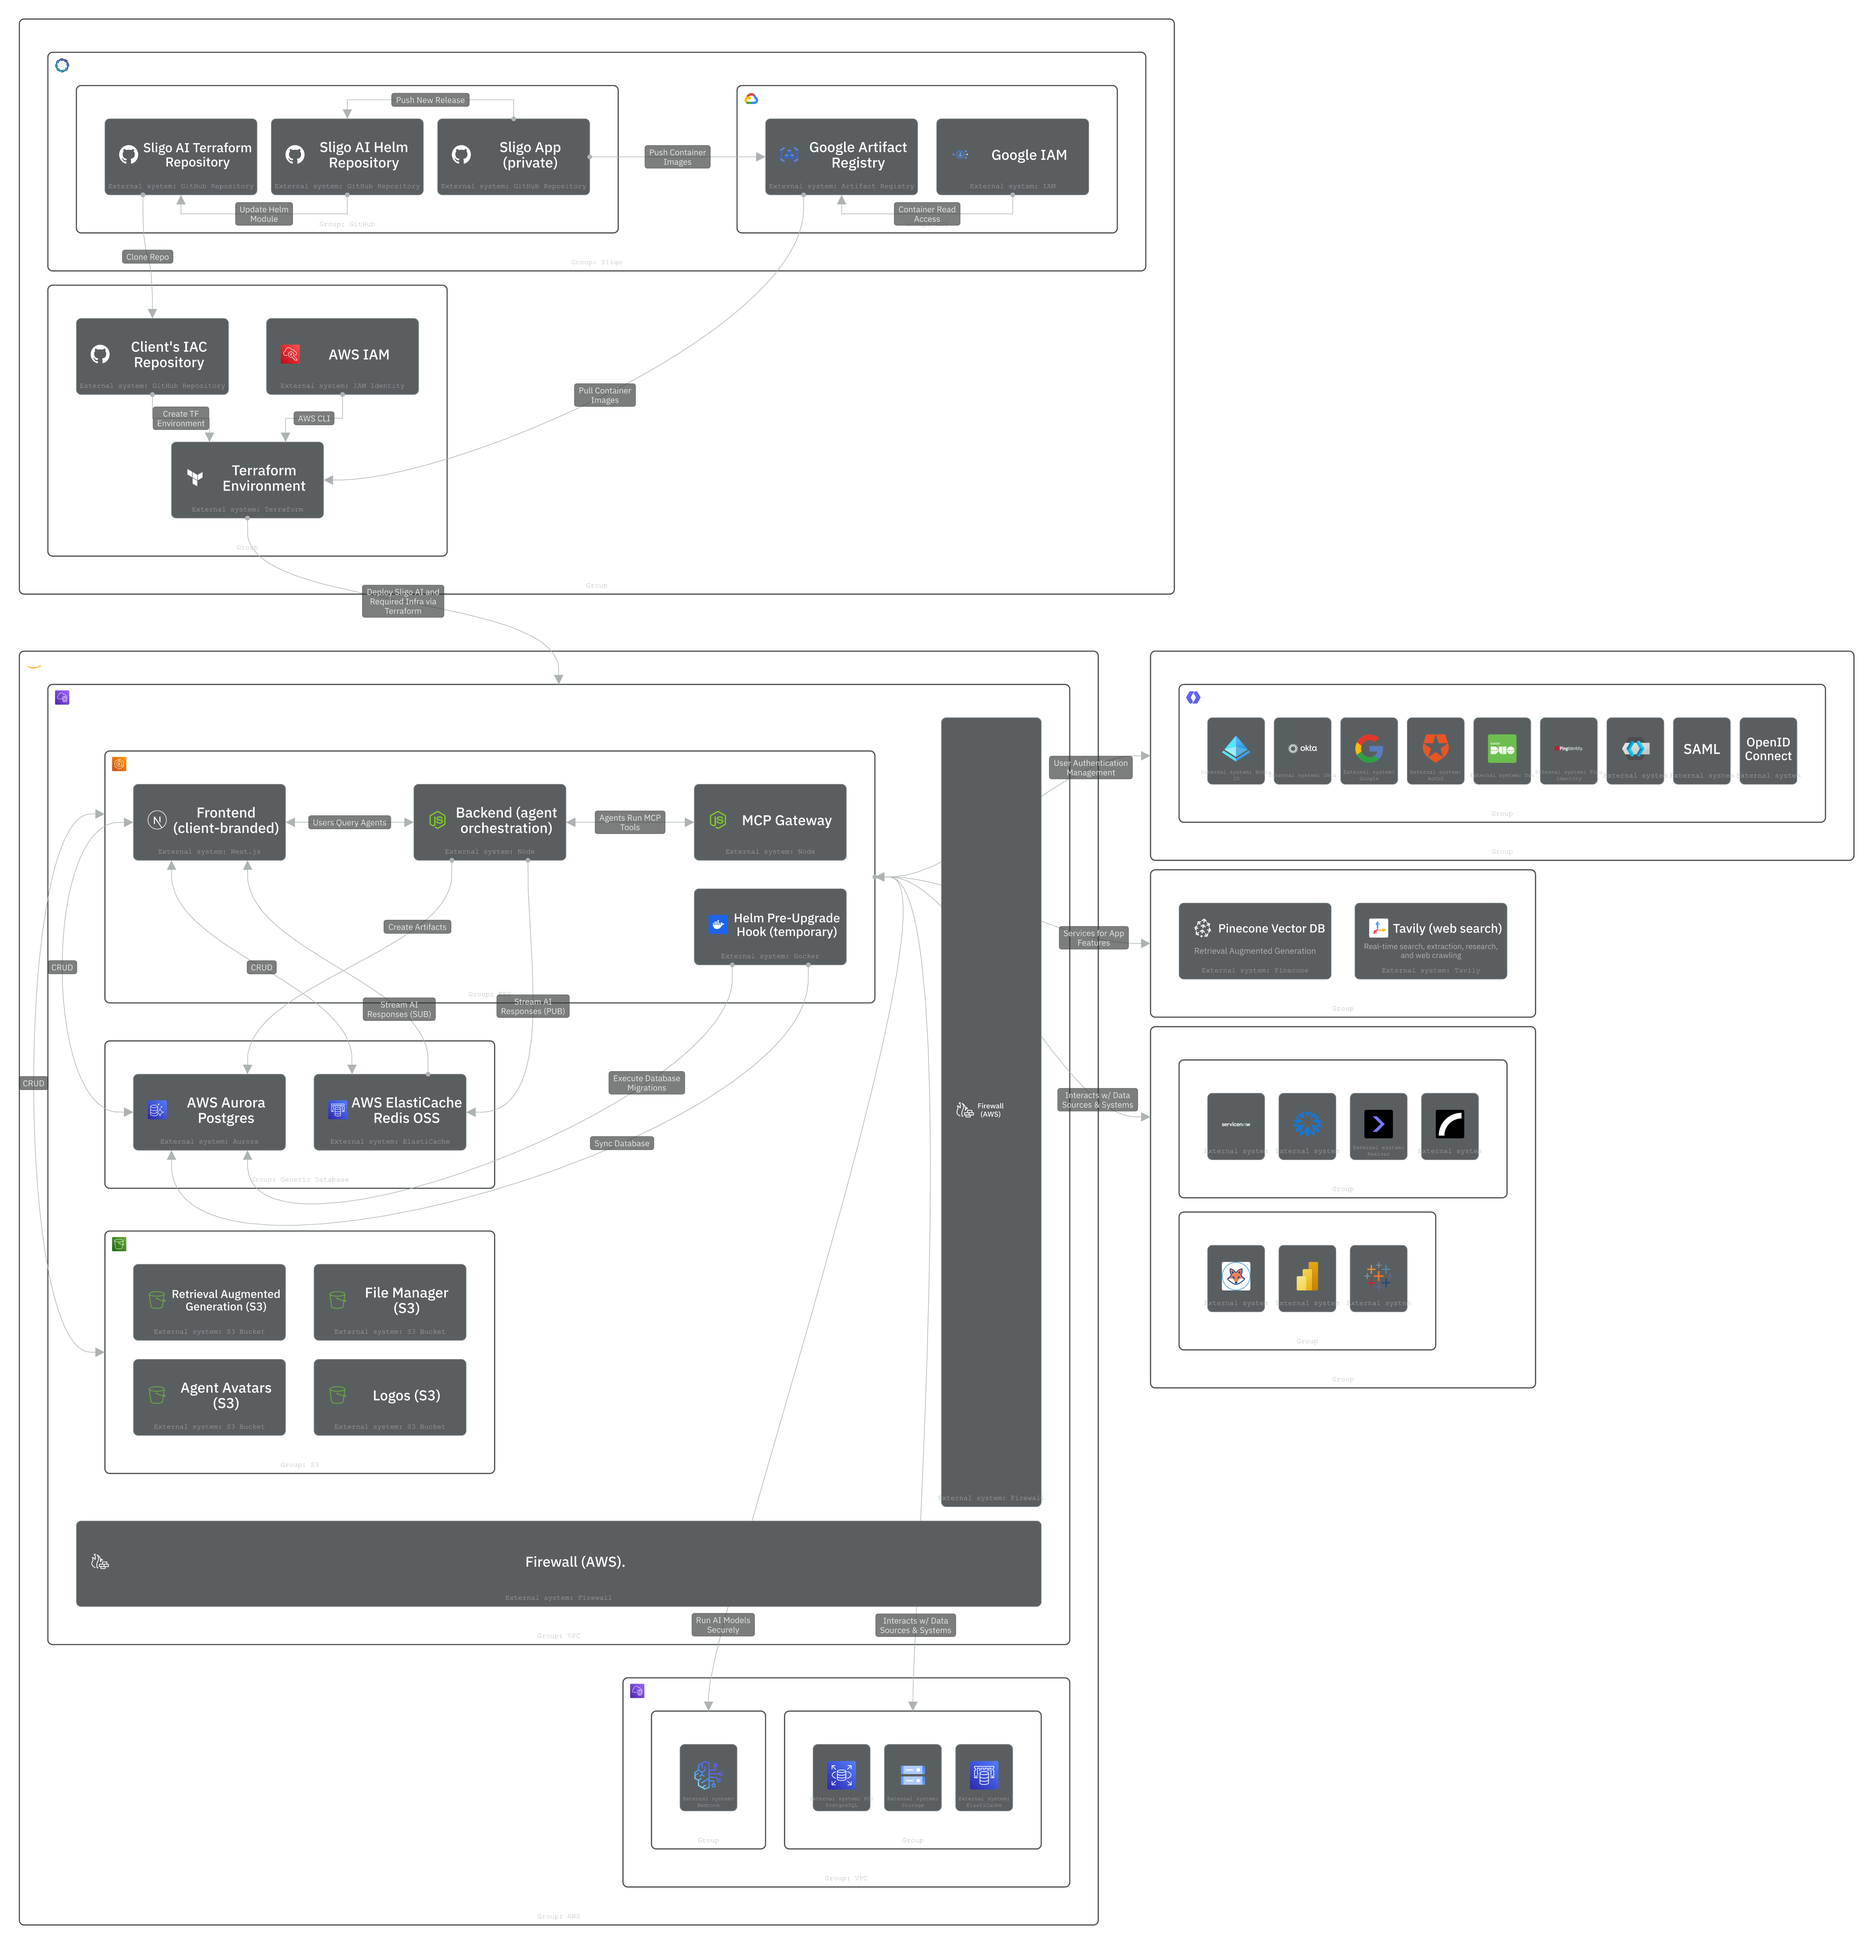
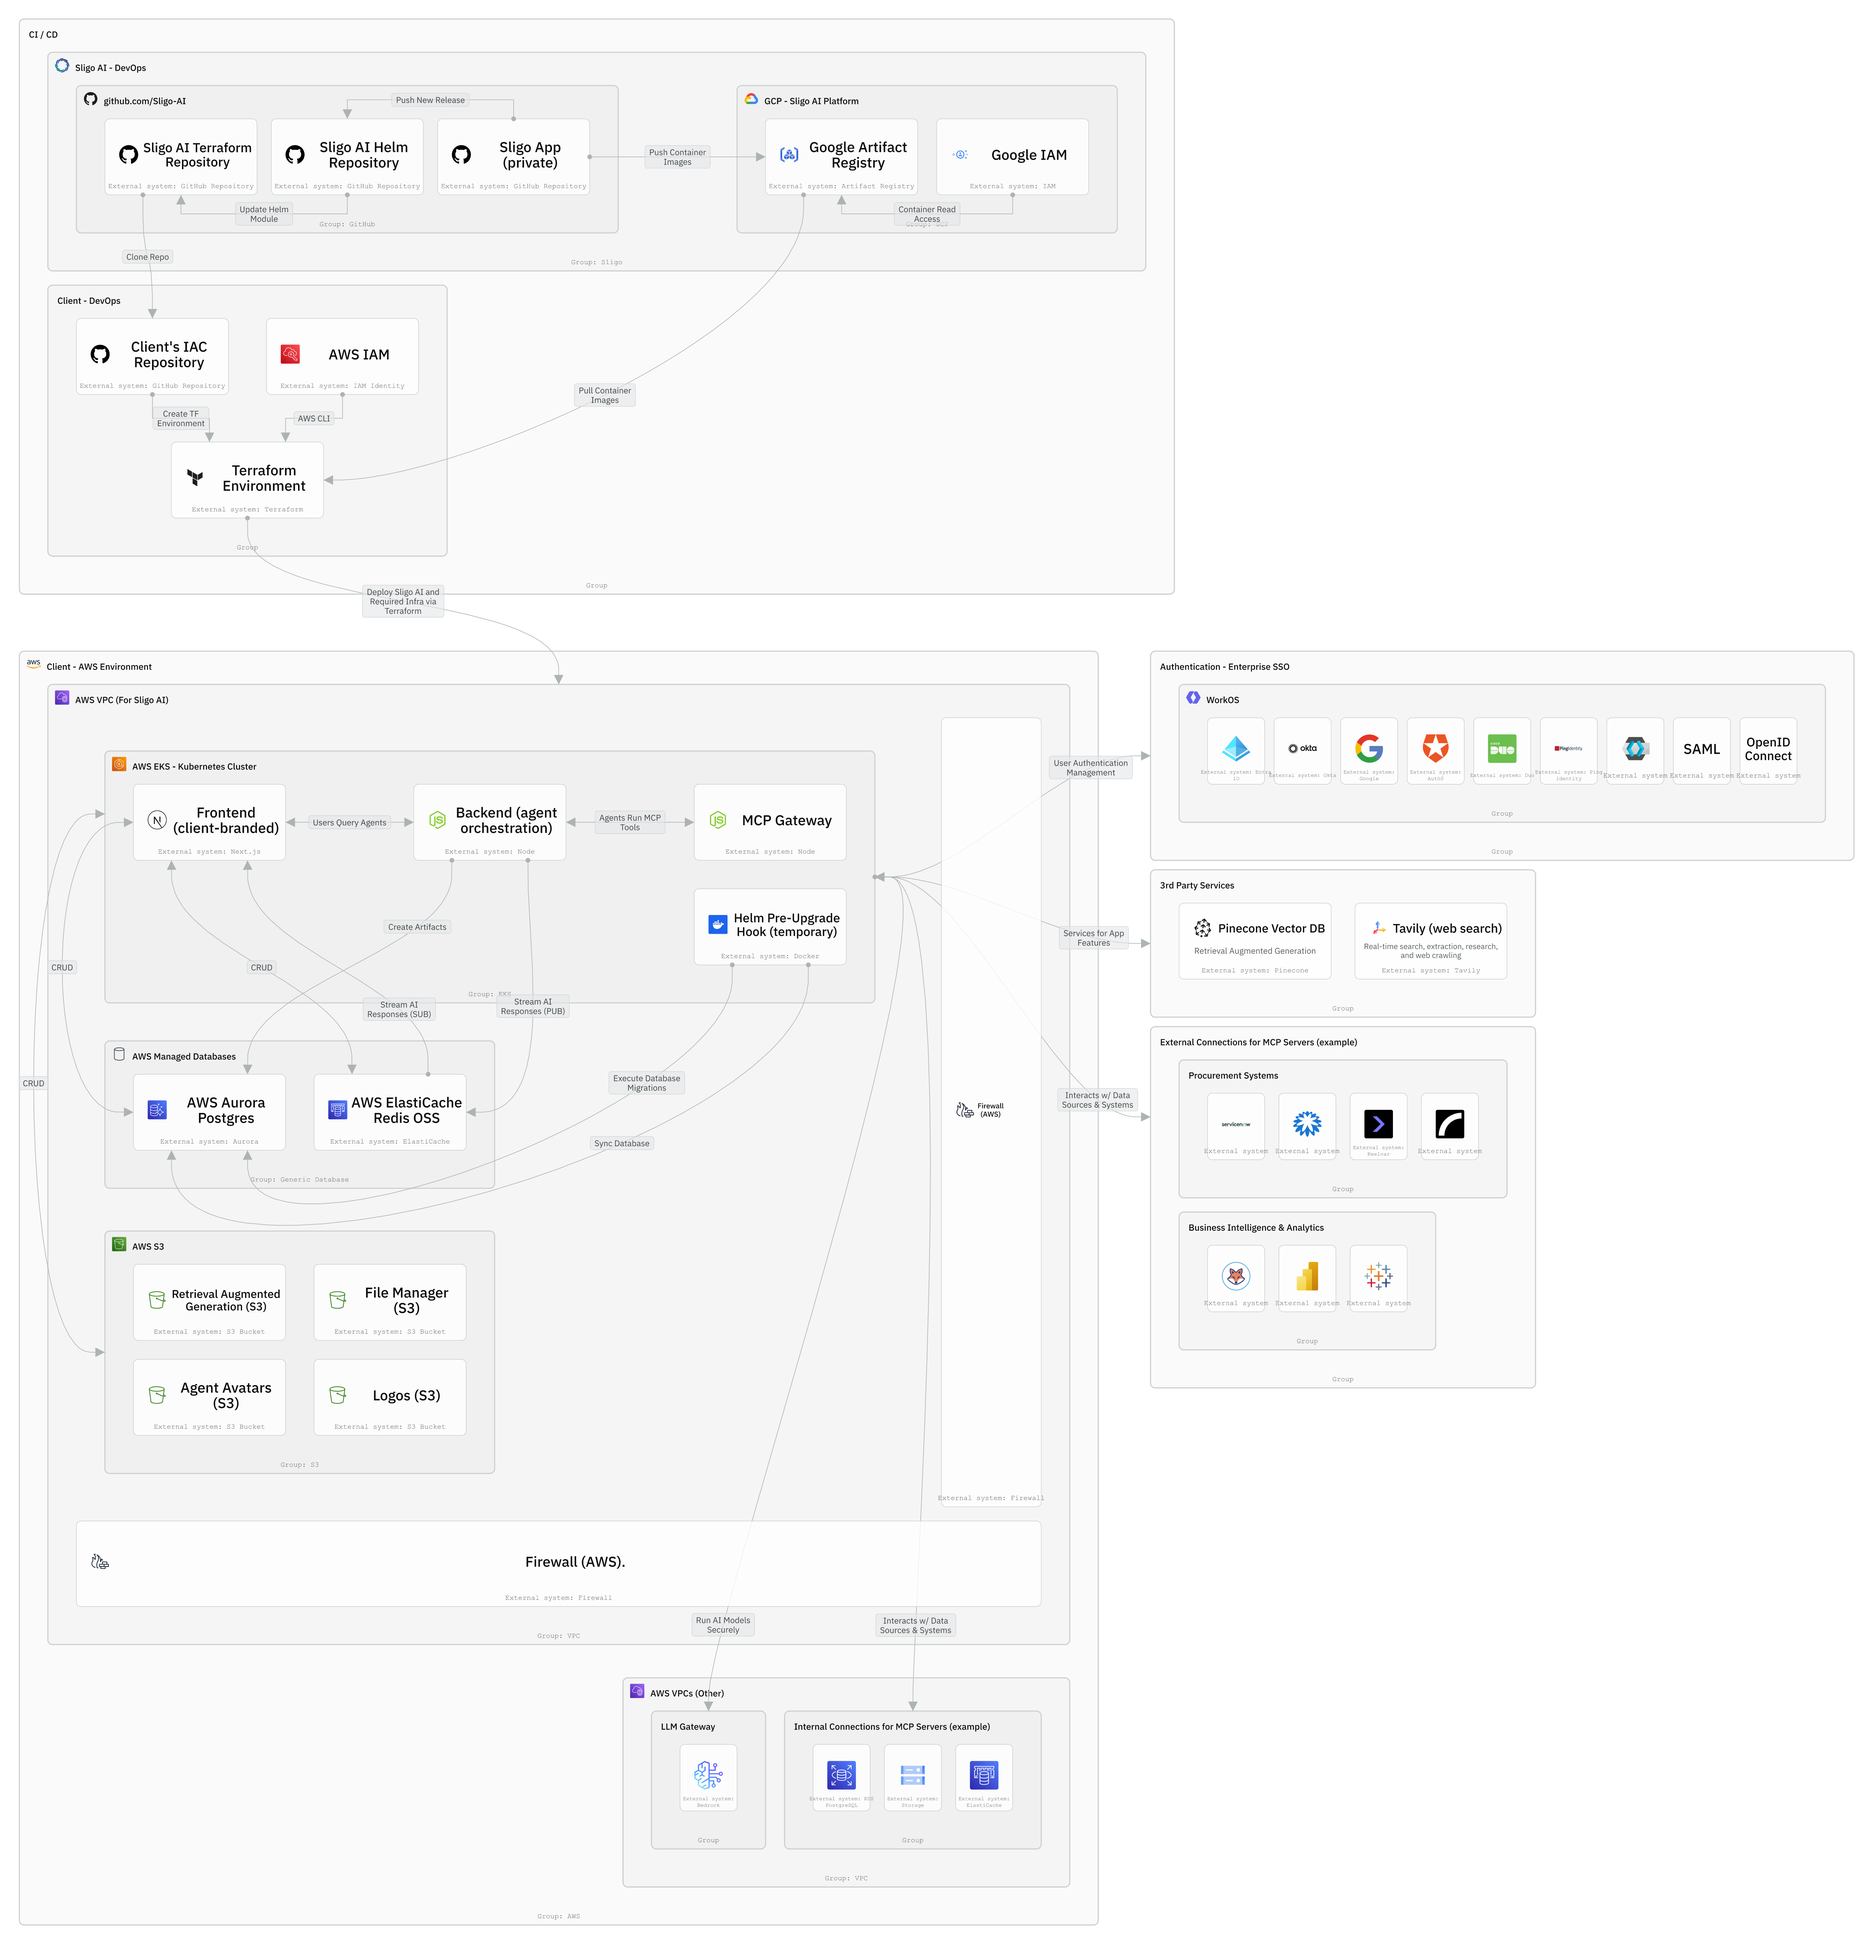
Added lightmode and darkmode diagrams

diff --git a/docs/_includes/theme-image.html b/docs/_includes/theme-image.html
@@ -1,0 +1,18 @@
+{% comment %}
+  Renders an image that switches by theme (Sligo Jekyll theme uses data-theme on html).
+  Parameters: light (required), dark (optional, falls back to light), alt (required)
+  Example: {% include theme-image.html light="aws-deployment.png" dark="aws-deployment-dark.png" alt="AWS Deployment" %}
+{% endcomment %}
+{% assign light_src = site.baseurl | append: "/assets/images/" | append: include.light %}
+{% assign dark_src = include.dark | default: include.light %}
+{% assign dark_src = site.baseurl | append: "/assets/images/" | append: dark_src %}
+<style>
+.theme-aware-image img.theme-light { display: block; }
+.theme-aware-image img.theme-dark { display: none; }
+html[data-theme="dark"] .theme-aware-image img.theme-light { display: none; }
+html[data-theme="dark"] .theme-aware-image img.theme-dark { display: block; }
+</style>
+<div class="theme-aware-image">
+  <img class="theme-light" src="{{ light_src }}" alt="{{ include.alt }}">
+  <img class="theme-dark" src="{{ dark_src }}" alt="{{ include.alt }}">
+</div>

diff --git a/docs/README.md b/docs/README.md
@@ -30,3 +30,13 @@ In the repo: **Settings → Pages → Build and deployment**
 - **Config:** `remote_theme: Sligo-AI/sligo-jekyll-theme` in `_config.yml`.
 
 Logo assets are in `assets/images/`. Navigation and theme options are in `_config.yml`.
+
+### Theme-aware deployment diagrams
+
+The AWS, GCP, and Azure deployment pages use `_includes/theme-image.html` so the diagram can differ in dark vs light mode. To show a different image in dark mode, add `-dark` variants and reference them:
+
+- `aws-deployment.png` (light) / `aws-deployment-dark.png` (dark)
+- `azure-deployment.png` (light) / `azure-deployment-dark.png` (dark)
+- `gcp-deployment.png` (light) / `gcp-deployment-dark.png` (dark)
+
+If you omit the `dark` parameter in the include, the same image is used for both themes.

diff --git a/docs/azure.md b/docs/azure.md
@@ -4,7 +4,7 @@ title: "Deploy on Azure AKS"
 description: "Step-by-step guide for deploying Sligo Enterprise on Azure AKS with Azure Database for PostgreSQL, Azure Cache for Redis, and Blob Storage."
 ---
 
-![Azure Deployment]({{ site.baseurl }}/assets/images/azure-deployment.png)
+{% include theme-image.html light="azure-deployment.png" dark="azure-deployment-dark.png" alt="Azure Deployment" %}
 
 ## Prerequisites
 

diff --git a/docs/gcp.md b/docs/gcp.md
@@ -4,7 +4,7 @@ title: "Deploy on GCP GKE"
 description: "Step-by-step guide for deploying Sligo Enterprise on Google GKE with Cloud SQL, Memorystore, and Cloud Storage."
 ---
 
-![GCP Deployment]({{ site.baseurl }}/assets/images/gcp-deployment.png)
+{% include theme-image.html light="gcp-deployment.png" dark="gcp-deployment-dark.png" alt="GCP Deployment" %}
 
 ## Prerequisites
 

diff --git a/docs/aws.md b/docs/aws.md
@@ -4,7 +4,7 @@ title: "Deploy on AWS EKS"
 description: "Step-by-step guide for deploying Sligo Enterprise on Amazon EKS with Aurora, ElastiCache, and S3."
 ---
 
-![AWS Deployment]({{ site.baseurl }}/assets/images/aws-deployment.png)
+{% include theme-image.html light="aws-deployment.png" dark="aws-deployment-dark.png" alt="AWS Deployment" %}
 
 ## Prerequisites
 
